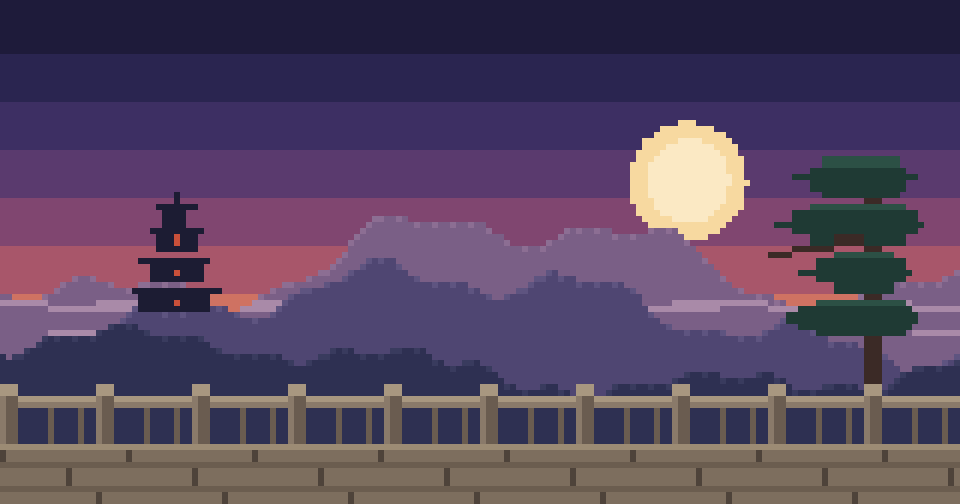
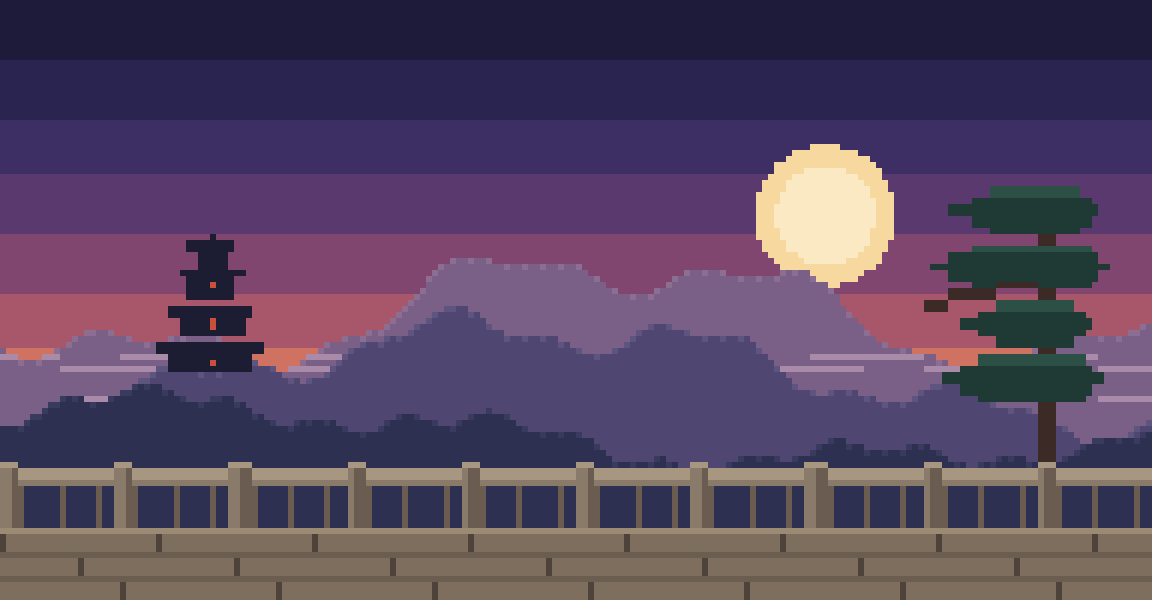
Widen screen to 192x100 with 3.75pt (5px) cells
Stage regenerated at 192x100 (ground row 88); HUD, start positions and the
temporary menu re-laid out; harness and stage generator default to 192x100.

diff --git a/tools/gen_stages.py b/tools/gen_stages.py
@@ -6,7 +6,7 @@ Colors are kept in few flat bands on purpose: fewer distinct runs per row means
 fewer Range paint calls in Excel.
 
 usage: python tools/gen_stages.py [W H] [stage names...]
-       (defaults: 120 64, all stages)
+       (defaults: 192 100 = Renderer.SCREEN_W/H, all stages)
 """
 import math
 import os
@@ -186,7 +186,7 @@ STAGES = {"sanmun": sanmun}
 
 if __name__ == "__main__":
     args = sys.argv[1:]
-    W, H = 120, 64
+    W, H = 192, 100
     if len(args) >= 2 and args[0].isdigit():
         W, H = int(args[0]), int(args[1])
         args = args[2:]

diff --git a/tools/harness/strip.py b/tools/harness/strip.py
@@ -3,7 +3,7 @@ usage: python3 tools/harness/strip.py <name> <tick> [<tick> ...]  -> out/<name>_
 import os, sys
 from PIL import Image, ImageDraw
 HERE = os.path.dirname(os.path.abspath(__file__))
-W, H = 160, 84
+W, H = 192, 100
 name, ticks = sys.argv[1], [int(t) for t in sys.argv[2:]]
 lines = open(os.path.join(HERE, "out", name + ".log")).read().split("\n")
 frames = {}

diff --git a/tools/harness/run_harness.py b/tools/harness/run_harness.py
@@ -19,7 +19,7 @@ ROOT = os.path.dirname(os.path.dirname(HERE))
 SRC = os.path.join(ROOT, "src")
 OUT = os.path.join(HERE, "out")
 SKIP = {"GameLoop", "DevTools", "Gallery", "KeyInput", "WinApi"}
-W, H = 160, 84
+W, H = 192, 100
 
 def pv(n, v):
     p = PropertyValue(); p.Name = n; p.Value = v; return p
